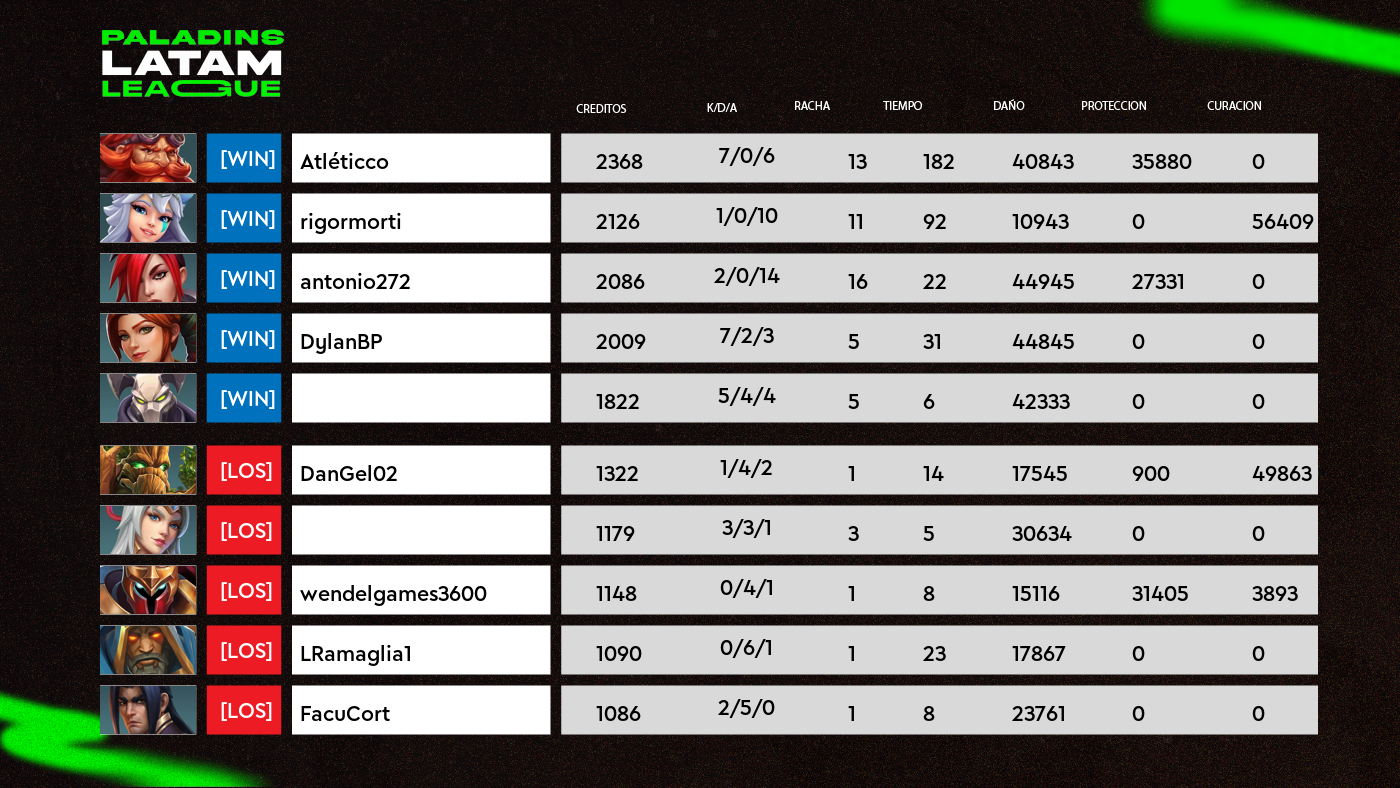
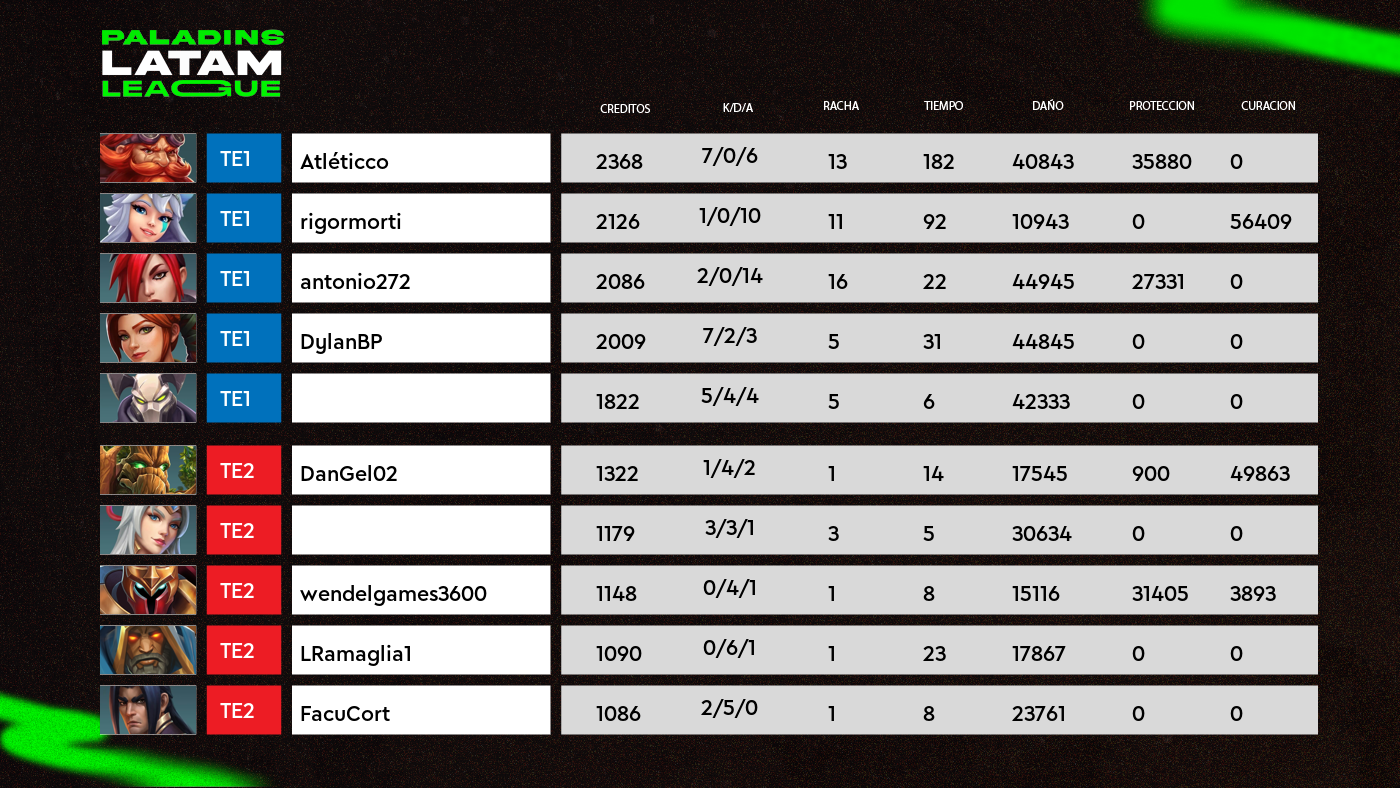
Atualização env

diff --git a/trialsbot.py b/trialsbot.py
@@ -1,17 +1,12 @@
 import os
 import discord
 from discord.ext import commands
+from dotenv import load_dotenv
 
-
-# Código para resgatar o token do Bot
-def read_token():
-    with open("./Docs/DocsDiscord/token.txt", "r") as f:
-        lines = f.readlines()
-        return lines[0].strip()
-
+load_dotenv()
 
 # Atribuindo o token à uma variavel
-token = read_token()
+token = os.getenv('TOKEN');
 
 # Subindo o Bot no discord
 intents = discord.Intents.all()

diff --git a/ApiPaladinsSmite/images.py b/ApiPaladinsSmite/images.py
@@ -20,7 +20,7 @@ class ImgPaladins:
         self.match_inf = match_inf
         self.champions = champions
         self.itens = itens
-        self.font = ImageFont.truetype("./Docs/Fonts/MegabyteMedium.otf", 20)
+        self.font = ImageFont.truetype("./Docs/Fonts/Arial.ttf", 16)
         self.kda_list = ["Kills_Player", "Deaths", "Assists"]
         self.icons_id_list = self._create_id_list()
         self.stats_list = self._create_stats_list()
